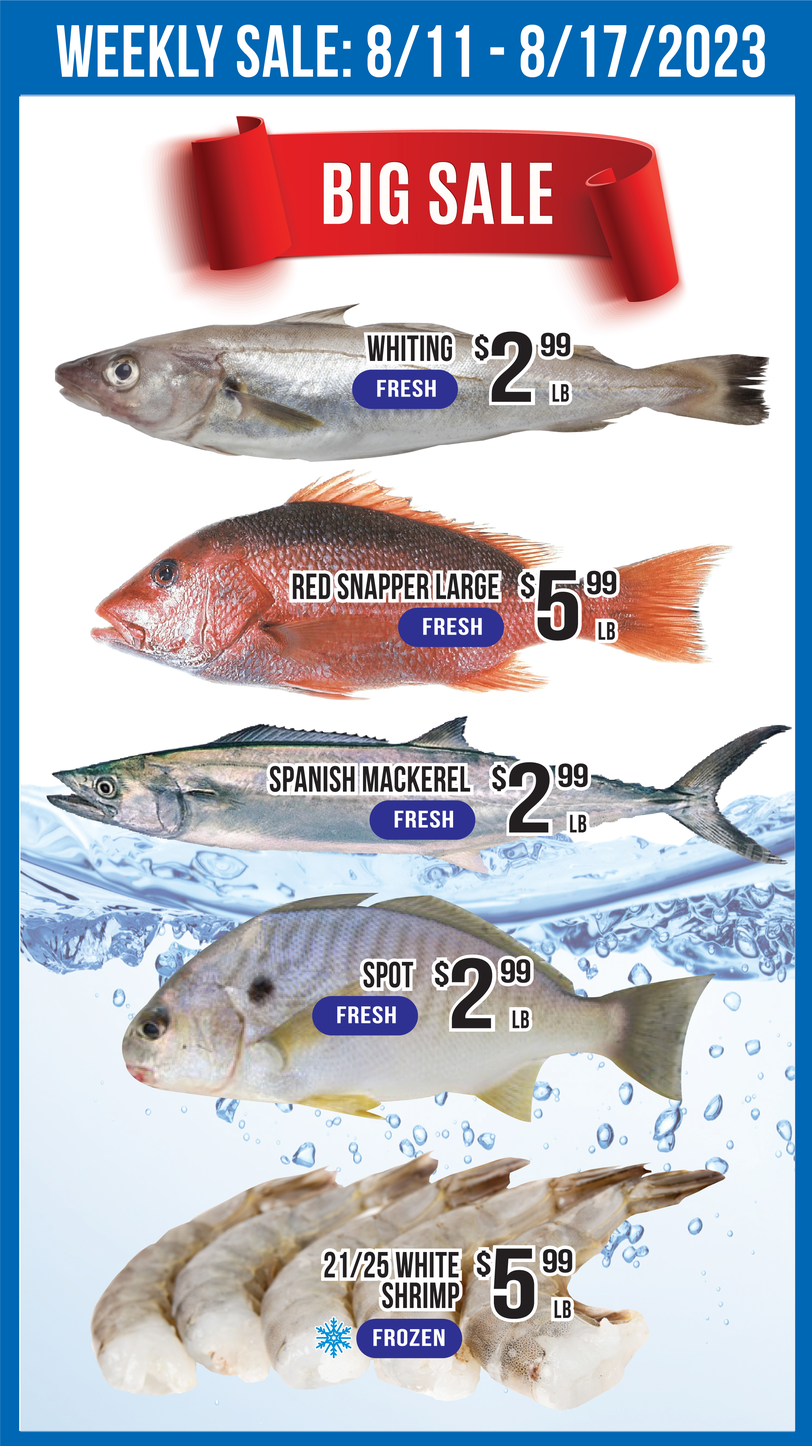
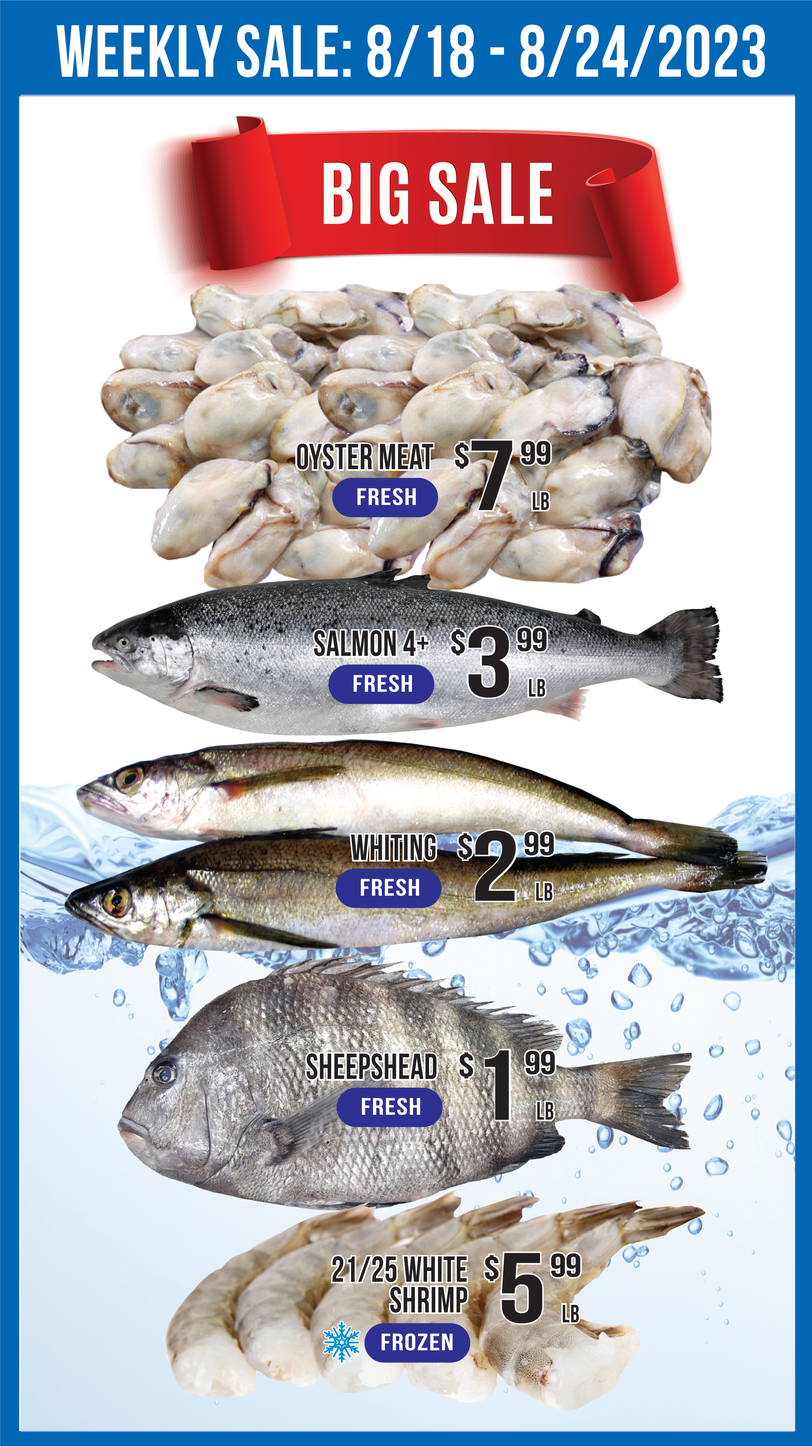
weekly specials

diff --git a/index.html b/index.html
@@ -64,16 +64,16 @@
           <img src="./public/assets/sp.jpg" class="d-block w-100 img-fluid" alt="...">
         </div> -->
         <div class="carousel-item center-carousel active">
-          <img src="./public/assets/sale/meat.jpg?v=081123" class="img-fluid" alt="...">
+          <img src="./public/assets/sale/meat.jpg?v=081823" class="img-fluid" alt="...">
         </div>
         <div class="carousel-item center-carousel">
-          <img src="./public/assets/sale/veg.jpg?v=081123" class="img-fluid" alt="...">
+          <img src="./public/assets/sale/veg.jpg?v=081823" class="img-fluid" alt="...">
         </div>
         <div class="carousel-item center-carousel">
-          <img src="./public/assets/sale/fish.jpg?v=081123" class="img-fluid" alt="...">
+          <img src="./public/assets/sale/fish.jpg?v=081823" class="img-fluid" alt="...">
         </div>
         <div class="carousel-item center-carousel">
-          <img src="./public/assets/sale/grocery.jpg?v=081123" class="img-fluid" alt="...">
+          <img src="./public/assets/sale/grocery.jpg?v=081823" class="img-fluid" alt="...">
         </div>
         <!-- <div class="carousel-item center-carousel">
           <img src="./public/assets/sale/grocery2.jpg?v=070623" class="img-fluid" alt="...">

diff --git a/deals.html b/deals.html
@@ -50,15 +50,15 @@
     <div class="row deal">
 
       <h2>English</h2>
-      <img class="img-fluid" src="./public/assets/weekly/english.jpg?v=081123">
+      <img class="img-fluid" src="./public/assets/weekly/english.jpg?v=081823">
 
       <br><br>
       <h2>Spanish</h2>
-      <img class="img-fluid" src="./public/assets/weekly/spanish.jpg?v=081123">
+      <img class="img-fluid" src="./public/assets/weekly/spanish.jpg?v=081823">
 
       <br>
       <h2>Korean</h2>
-      <img class="img-fluid" src="./public/assets/weekly/korean.jpg?v=081123">
+      <img class="img-fluid" src="./public/assets/weekly/korean.jpg?v=081823">
       <br>
       <br>
     </div>
